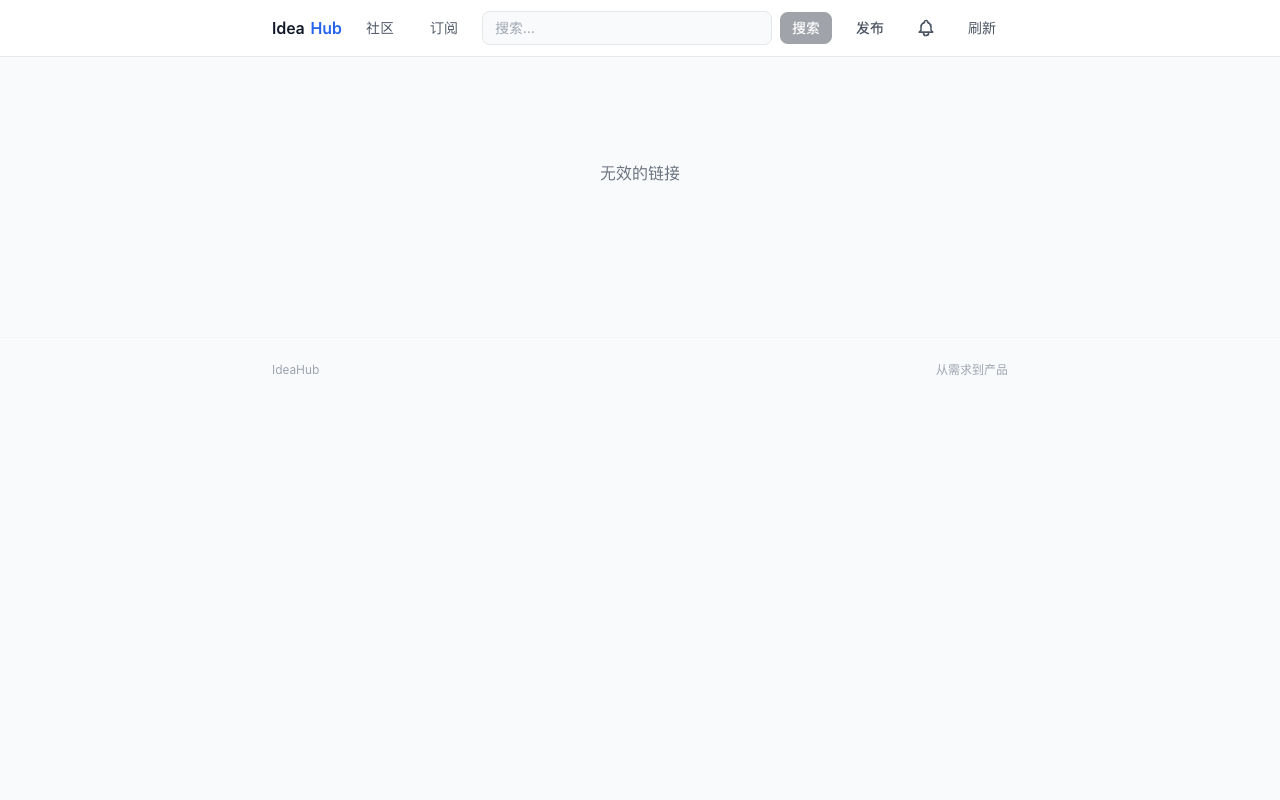
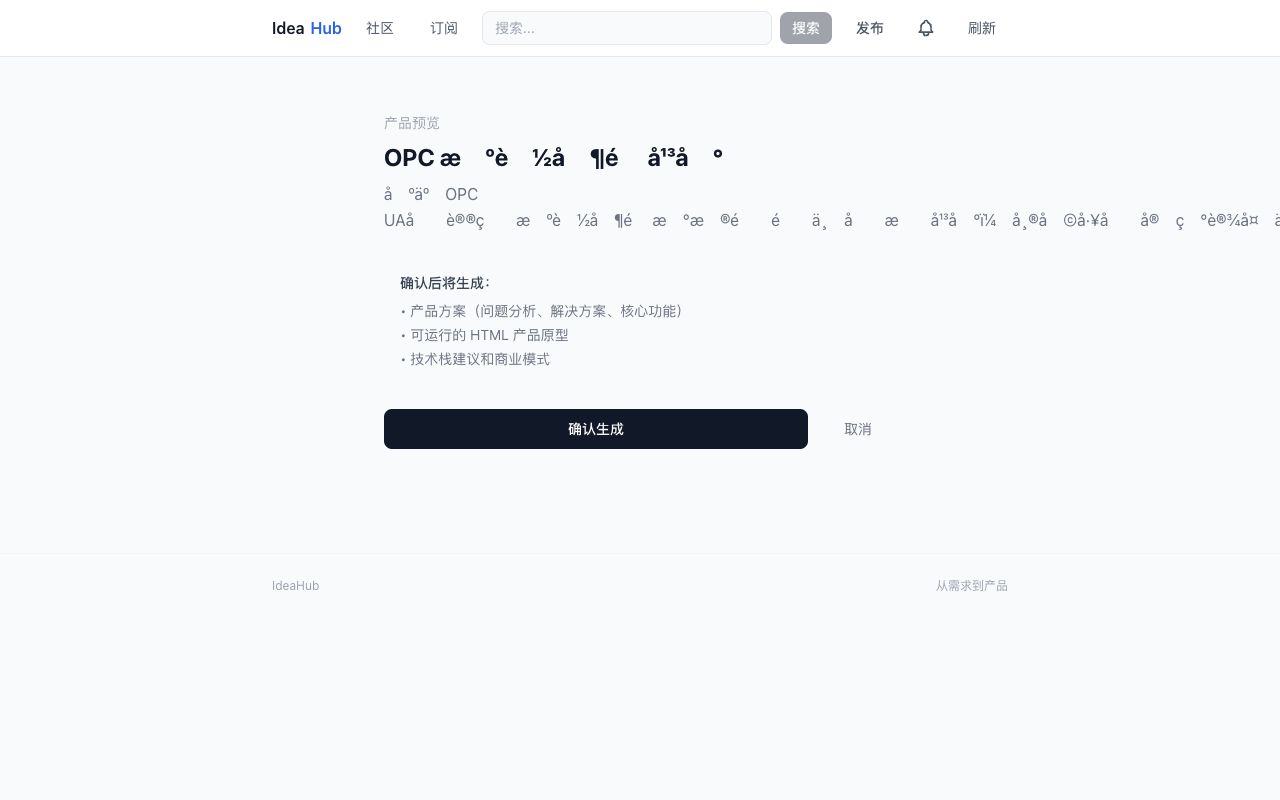
fix: proper UTF-8 decoding for Chinese characters

diff --git a/app/preview/[token]/page.tsx b/app/preview/[token]/page.tsx
@@ -17,8 +17,8 @@ export default function PreviewPage({ params }: { params: Promise<{ token: strin
   // 解析 token
   let ideaData
   try {
-    // URL decode the token first, then base64 decode
-    const decoded = atob(decodeURIComponent(token))
+    // URL decode, base64 decode, then UTF-8 decode
+    const decoded = decodeURIComponent(escape(atob(decodeURIComponent(token))))
     ideaData = JSON.parse(decoded)
   } catch {
     return (